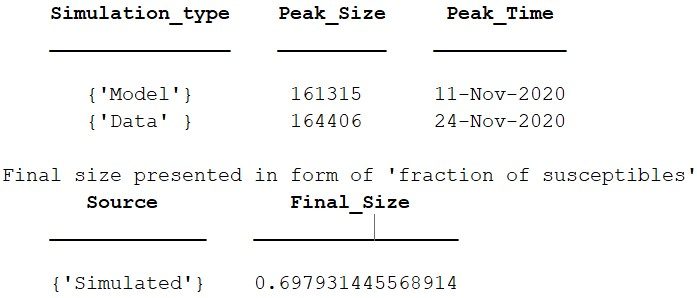
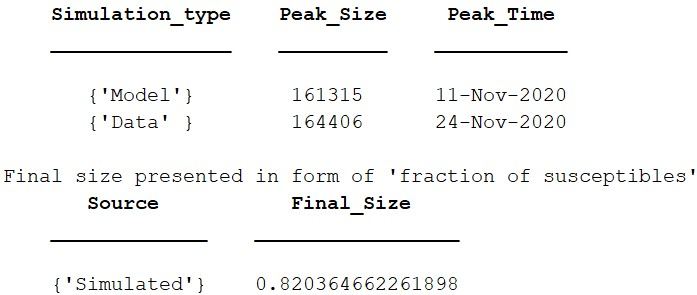
Bug fixes and simulations
- Fixed error in I(0)
- Added print of aggregated contact matrices feature

diff --git a/constants_my.m b/constants_my.m
@@ -42,7 +42,7 @@ sieroDay = 142;
 %%%%%%%%%%%INITIAL VALUES%%%
 
 %ISS Data
-initI = (table2array(data_table(firstDay,2))*0.372)*[0.131, 0.148, 0.202, 0.199, 0.133, 0.187];
+initI = (table2array(data_table(firstDay,2))*0.294)*[0.131, 0.148, 0.202, 0.199, 0.133, 0.187];
 initA = initI.*(1./(1 - [0.1809 0.2279 0.3134 0.398 0.3980 0.8291]));
 %Estimation of new infections after latent period estimate by Gatto et al
 initE = ((table2array(data_table(firstDay + 5, 2)) + table2array(data_table(firstDay + 4, 2)) - 2 * table2array(data_table(firstDay,2)))/2)*[0.131, 0.148, 0.202, 0.199, 0.133, 0.187];
@@ -82,11 +82,13 @@ k_italy_lock = (k_italy_home/2 + k_italy_work/15)*0.8;
 % k_italy_lock = k_italy_home/10;
 % k_italy_lock = k_italy;
 
-k_italy_lock2 = k_italy*0.5;
-% k_italy_lock2 = k_italy_lock;
+% k_italy_lock2 = k_italy;
+k_italy_lock2 = k_italy_lock;
 %No over 70 contact
 % k_italy_lock2(1:16,15:16) = zeros(16,2);
 % k_italy_lock2(15:16,1:16) = zeros(2,16);
+%Only schools open
+% k_italy_lock2 = (k_italy_home/2 + k_italy_school/10)*0.8;
 
 % Contact matrix by Prem (UPDATED: Prem et al is aggregated contact matrix +
 %susceptible population, so we disaggregate the contact matrix from the
@@ -94,10 +96,10 @@ k_italy_lock2 = k_italy*0.5;
 %w.r.t. appropriate bds)
 k_italy_aggr = aggregate_contact_matrix(k_italy, prem_bds, istat_bds, pyramid);
 cont_mat = dis_coeff(k_italy_aggr,agg_istat_pyr);
-cont_mat_lock = aggregate_contact_matrix(k_italy_lock, prem_bds, istat_bds, pyramid);
-cont_mat_lock = dis_coeff(cont_mat_lock, agg_istat_pyr);
-cont_mat_lock2 = aggregate_contact_matrix(k_italy_lock2, prem_bds, istat_bds, pyramid);
-cont_mat_lock2 = dis_coeff(cont_mat_lock2, agg_istat_pyr);
+k_italy_aggr_lock = aggregate_contact_matrix(k_italy_lock, prem_bds, istat_bds, pyramid);
+cont_mat_lock = dis_coeff(k_italy_aggr_lock, agg_istat_pyr);
+k_italy_aggr_lock2 = aggregate_contact_matrix(k_italy_lock2, prem_bds, istat_bds, pyramid);
+cont_mat_lock2 = dis_coeff(k_italy_aggr_lock2, agg_istat_pyr);
 
 %NO LOCKDOWN
 % k_italy_lock = k_italy;

diff --git a/tester.m b/tester.m
@@ -65,16 +65,18 @@ hold on
 %PLOT REAL DATA
 y_real = table2array(data_table(firstDay:firstDay+simulength+simulength_lock + simulength_lock2 - 1,2));
 scatter(date_t,y_real)
-legend({'Model', 'Data'},'Location', 'northwest');
 
-xline(datetime(2020,11,06),'--',{'Strict lockdown'});
-xline(datetime(2020,11,26),'--',{'End'});
+xline(datetime(2020,11,06),'--k');
+xline(datetime(2020,11,26),'--g');
+
+legend({'Model', 'Data', 'Nov 6th', 'Nov 27th' },'Location', 'northwest');
 
 %PLOT HEATMAP USED IN SIMULATION
 subplot(2,2,3)
-h = heatmap(k_italy_lock);
-h.YDisplayData = {16, 15, 14, 13, 12, 11, 10, 9, 8, 7, 6, 5, 4, 3, 2, 1};
-% title('Schools')
+h = heatmap(k_italy_aggr_lock);
+% h.YDisplayData = {16, 15, 14, 13, 12, 11, 10, 9, 8, 7, 6, 5, 4, 3, 2, 1};
+h.YDisplayData = {6,5,4,3,2,1};
+title('K lock')
 xlabel('Age group of individual')
 ylabel('Age group of contact')
 
